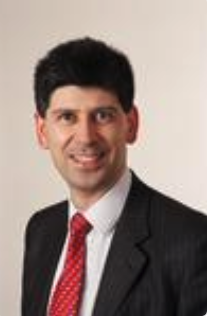
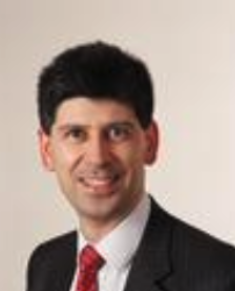
Latest changes

diff --git a/site/layouts/partials/footer.html b/site/layouts/partials/footer.html
@@ -1,58 +1,63 @@
 <div class="donate-widget">
-      <a href="https://localgiving.org/charity/prospex/"  title="Donate to Prospex Now" target="_blank">🧡 Donate Now</a>
-    </div>
+  <a href="https://localgiving.org/charity/prospex/" title="Donate to Prospex Now" target="_blank">🧡 Donate Now</a>
+</div>
+
+<button onclick="topFunction()" id="myBtn" title="Go to top">☝🏻</button>
+
 
 <footer class="bg-black ph3 pv4 white">
 
-	<div class="mw7 center pt3">
+  <div class="mw7 center pt3">
 
-		<div class="measure-narrow center mb4">
+    <div class="measure-narrow center mb4">
 
-			<img src="/img/prospex-logo.png" alt="Prospex logo" class="db w4 center mb4 br0">
+      <img src="/img/prospex-logo.png" alt="Prospex logo" class="db w4 center mb4 br0">
 
-		</div>
+    </div>
 
-		<div class="flex-ns justify-between">
+    <div class="flex-ns justify-between">
 
-			<div>
-				<h3 class="f4 b lh-title mb1 primary">Prospex</h3>
-				<ul class="mb3">
-					<li><a href="/programmes" class="link">Our Programmes</a></li>
-					<li><a href="/get-involved" class="link">Get Involved</a></li>
-					<li><a href="/blog" class="link">Blog</a></li>
-					<li><a href="/about" class="link">About</a></li>
+      <div>
+        <h3 class="f4 b lh-title mb1 primary">Prospex</h3>
+        <ul class="mb3">
+          <li><a href="/programmes" class="link">Our Programmes</a></li>
+          <li><a href="/get-involved" class="link">Get Involved</a></li>
+          <li><a href="/blog" class="link">Blog</a></li>
+          <li><a href="/about" class="link">About</a></li>
           <li><a href="/meet-the-team" class="link">Meet the Team</a></li>
-				</ul>
-			</div>
+        </ul>
+      </div>
 
-			<div>
-				<h3 class="f4 b lh-title mb1 primary">Find out more</h3>
-				<ul class="mb3">
-					<li><p>info@prospex.org</p></li>
-					<li></li>
-				</ul>
-			</div>
+      <div>
+        <h3 class="f4 b lh-title mb1 primary">Find out more</h3>
+        <ul class="mb3">
+          <li>
+            <p>info@prospex.org</p>
+          </li>
+          <li></li>
+        </ul>
+      </div>
 
-			<div>
-				<h3 class="f4 b lh-title mb2 primary">Social media</h3>
-				<ul class="mhn2">
-					{{ partial "social-icon" (dict "link" "https://www.facebook.com/prospex.charity/" "svg" "icons-facebook") }}
-					{{ partial "social-icon" (dict "link" "https://twitter.com/prospextweets?lang=en" "svg" "icons-twitter") }}
-					{{ partial "social-icon" (dict "link" "https://www.instagram.com/explore/locations/252994568072550/prospex/" "svg" "icons-instagram") }}
-					{{ partial "social-icon" (dict "link" "https://vimeo.com/35757294" "svg" "icons-vimeo") }}
-				</ul>
-			</div>
+      <div>
+        <h3 class="f4 b lh-title mb2 primary">Social media</h3>
+        <ul class="mhn2">
+          {{ partial "social-icon" (dict "link" "https://www.facebook.com/prospex.charity/" "svg" "icons-facebook") }}
+          {{ partial "social-icon" (dict "link" "https://twitter.com/prospextweets?lang=en" "svg" "icons-twitter") }}
+          {{ partial "social-icon" (dict "link" "https://www.instagram.com/explore/locations/252994568072550/prospex/" "svg" "icons-instagram") }}
+          {{ partial "social-icon" (dict "link" "https://vimeo.com/35757294" "svg" "icons-vimeo") }}
+        </ul>
+      </div>
 
-		</div>
-	</div>
+    </div>
+  </div>
 
 </footer>
 
 {{ partial "svg" . }}
 
 <script src="/app.js"></script>
+<script src="/scrollFunction.js"></script>
 
-</script>
 
 </body>
 

diff --git a/site/layouts/partials/4-up.html b/site/layouts/partials/4-up.html
@@ -1,12 +1,12 @@
 <div class="bg-off-white pv4">
 	<div class="ph3 mw7 center">
-		<h2 class="f2 b lh-title mb2">{{.heading}}</h2>
+		<h2 class="f2 b lh-title mb2 tc">{{.heading}}</h2>
 		<p class="mb4 mw6">{{.description}}</p>
 
 		<div class="flex-ns flex-wrap mhn2-ns mb3">
 			{{ range .blurbs }}
 				<div class="ph2-ns w-50-ns mb4">
-					<img src="{{ .image }}" alt="" class="center db mb3" style="width: 240px" >
+					<img src="{{ .image }}" alt="" class="center db mb3" style="width: 240px " >
 					<p class="tc">{{ .text }}</p>
 				</div>
 			{{ end }}

diff --git a/src/css/main.css b/src/css/main.css
@@ -107,6 +107,26 @@
   background: rgba(50,50,50,0.7);
 }
 
-.mhn2 {
+.dib ph2 raise {
   target: _blank;
+}
+
+#myBtn {
+  display: none;
+  position: fixed;
+  bottom: 20px;
+  right: 30px;
+  z-index: 99;
+  border: none;
+  outline: none;
+  background-color: orange;
+  border-color: orange;
+  cursor: pointer;
+  padding: 10px;
+  border-radius: 10px;
+  font-size: 25px;
+}
+
+#myBtn:hover{
+  background-color: rgba(255, 165, 0, 1);
 }

diff --git a/src/js/scrollFunction.js b/src/js/scrollFunction.js
@@ -1,0 +1,14 @@
+window.onscroll = function() {scrollFunction()};
+
+function scrollFunction() {
+  if (document.body.scrollTop > 20 || document.documentElement.scrollTop > 20) {
+    document.getElementById('myBtn').style.display = "block";
+  } else {
+    document.getElementById('myBtn').style.display = "none";
+  }
+}
+
+function topFunction() {
+  document.body.scrollTop = 0;
+  document.documentElement.scrollTop = 0;
+}

diff --git a/site/layouts/section/programmes.html b/site/layouts/section/programmes.html
@@ -5,11 +5,11 @@
 <div class="mw7 center ph3 pt4">
 
   {{ range $index, $element := .Params.values }}
-    {{ if modBool $index 2 }}
-      {{ partial "media-block" $element }}
-    {{ else }}
-      {{ partial "media-block-reverse" $element }}
-    {{ end }}
+  {{ if modBool $index 2 }}
+  {{ partial "media-block" $element }}
+  {{ else }}
+  {{ partial "media-block-reverse" $element }}
+  {{ end }}
   {{ end }}
 
 </div>

diff --git a/site/layouts/section/meet-the-team.html b/site/layouts/section/meet-the-team.html
@@ -6,8 +6,8 @@
 
 
 {{ with .Params.main }}
-<div class="mw7 center">
-  <div class="mw6 ph3 mb3">
+<div class="mw7 center ">
+  <div class="mw6 ph3 mb3 ">
     <h3 class="f3 b lh-title mb2">{{ .heading }}</h3>
     <p>{{ .description }}</p>
   </div>
@@ -19,7 +19,7 @@
 
 <div class="pb4">
   {{ range .Params.testimonials }}
-    {{ partial "blockquote" . }}
+  {{ partial "blockquote" . }}
   {{ end }}
 </div>
 

diff --git a/webpack.conf.js b/webpack.conf.js
@@ -26,7 +26,8 @@ export default {
   context: path.join(__dirname, "src"),
   entry: {
     app: ["./js/app"],
-    cms: ["./js/cms"]
+    cms: ["./js/cms"],
+    scrollFunction: ["./js/scrollFunction"]
   },
   output: {
     path: path.join(__dirname, "dist"),

diff --git a/site/layouts/partials/media-block-reverse.html b/site/layouts/partials/media-block-reverse.html
@@ -5,8 +5,8 @@
   </div>
 
   <div class="ph3-m w-50-m">
-    <h3 class="f3 b lh-title mb1">{{.heading}}</h3>
-    <p>{{.text}}</p>
+    <h3 class="f3 b lh-title mb1 tc">{{.heading}}</h3>
+    <p class="tc">{{.text}}</p>
   </div>
 
 </div>

diff --git a/site/layouts/partials/media-block.html b/site/layouts/partials/media-block.html
@@ -5,8 +5,8 @@
   </div>
 
   <div class="ph3-m w-50-m">
-    <h3 class="f3 b lh-title mb1">{{.heading}}</h3>
-    <p>{{.text}}</p>
+    <h3 class="f3 b lh-title mb1 tc">{{.heading}}</h3>
+    <p class="tc">{{.text}}</p>
   </div>
 
 </div>

diff --git a/site/layouts/partials/head.html b/site/layouts/partials/head.html
@@ -24,4 +24,5 @@
 	<meta property="og:image" content="/img/og-image.jpg">
 
 	<script src="https://identity.netlify.com/v1/netlify-identity-widget.js"></script>
+	
 </head>

diff --git a/site/layouts/section/get-involved.html b/site/layouts/section/get-involved.html
@@ -19,7 +19,7 @@
 
 <div class="pb4">
   {{ range .Params.testimonials }}
-    {{ partial "blockquote" . }}
+  {{ partial "blockquote" . }}
   {{ end }}
 </div>
 

diff --git a/site/content/meet-the-team/_index.md b/site/content/meet-the-team/_index.md
@@ -4,13 +4,13 @@ type: Meet the Team
 image: /img/adventure.jpg
 intro:
   blurbs:
-    - image: /img/prospex-ceo.jpg
+    - image: /img/prospex-ceo.png
       text: >
         Richard Known as Beef has been involved in Prospex since 2001 and was appointed as CEO in 2008, when the founder Matt Calvert moved onto new ventures. Previously Richard worked as Youth Pastor of Morden Baptist Church, leading the youth and community work for 10 years. He has been qualified as a Youth Worker since 1996 and is a level 6 supervisor. He also has 14 years of voluntary experience as a youth worker in various youth organisations.
     - image: /img/business-dev-manager.jpg
       text: >
         Cathy has a post graduate qualification in Community and Youth Work and over 15 years experience of working in the voluntary sector in Senior Roles, including Murray House Community and Youth Centre Newcastle upon Tyne, the North London YMCA and The Terrence Higgins Trusts. Previous to this she worked in several roles for the London Borough of Camden including as a Grants Manager, leading a Community Development Team and in Housing Regeneration.
-    - image: /img/senior-youth-worker.jpg
+    - image: /img/senior-youth-worker.png
       text: >
         Alan is the Senior Youth Worker at Prospex, responsible for the day to day running of the Community Programme and all aspects of our work with young people. Having joined Prospex in 2010 as a volunteer, Alan soon progressed to part time and then full time youth worker.  He has a BA in Youth Work, Community Development and Social Pedagogy.
     - image: /img/chairman.jpg
@@ -19,7 +19,7 @@ intro:
     - image: /img/street-team-coordinator.jpg
       text: >
         Charli has been working with vulnerable and at risk young people for the past 8 years, her previous roles include; Youth work in high gang affiliated areas, Detached work, Mentoring, Project coordination, Holding Music performance and technology workshops as well as focus groups based on things like confidence boosting, relationship and self awareness, drug and alcohol misuse and gang culture.
-    - image: /img/girls-dev-worker.jpg
+    - image: /img/girls-dev-worker.png
       text: >
         Carole is the Girls Development Worker at Prospex responsible for all aspects of the girls programme and their support. Ensuring the current programmes are relevant, engaging and holistic as well as supporting girls in our one-2-one programme. Carole has a level 4 in Youth Work, Community Development and Social Pedagogy. And enjoys keeping up to date with training opportunities, C-Card training, Mental health, first aid training.
     - image: /img/legal.jpg
@@ -28,7 +28,7 @@ intro:
     - image: /img/public-relations.jpg
       text: >
         Returning to London after living abroad for some time Marjorie found  St Andrews Church, Barnsbury where she met the founder of  Prospex whose idea for  a charity  working to help and encourage young people in the area interested her very much. When Prospex was founded in 2001 she became a Trustee.  Marjorie also serves on the committee of the Friends of Thomas Coram.
-    - image: /img/hr.jpg
+    - image: /img/hr.png
       text: >
         Fran lives in Islington and became a Trustee in 2017 with a particular focus on HR matters, drawing on over 25 years’ business and commercial experience of leading multicultural HR teams within financial services and running her own business. Frances is a leadership coach and psychotherapist. She first became involved with Prospex in 2000 when she supported them to implement their vision.
     - image: /img/finance.jpg
